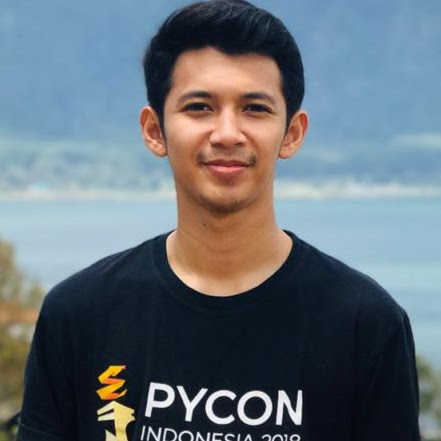
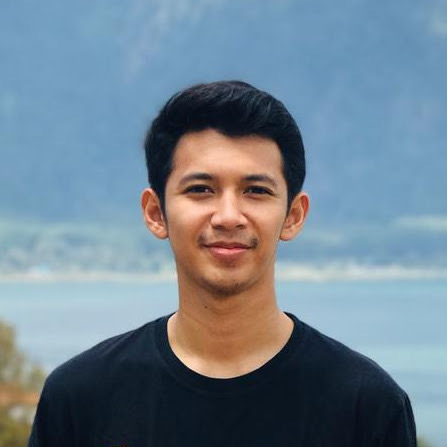
Updated profile pic and resize font

diff --git a/styles.scss b/styles.scss
@@ -3,7 +3,7 @@ section {
   flex-direction: column;
 }
 section h1 {
-  font-size: 42px;
+  font-size: 32px;
   font-weight: 300;
   margin: 0;
   color: #454545;
@@ -14,7 +14,7 @@ section h1:focus {
   outline: none;
 }
 section h2 {
-  margin: 8px 20px 0 0;
+  margin: 8px 0;
   display: inline-block;
   font-weight: 200;
 }
@@ -68,12 +68,12 @@ nav a {
   section h1 {
     position: relative;
     padding-right: 0;
-    font-size: 60px;
+    font-size: 40px;
     color: #454545;
     font-weight: 200;
   }
   section h2 {
-    margin: 8px 20px 0 0;
+    margin: 8px 0;
     display: inline-block;
     font-weight: 200;
   }
@@ -100,7 +100,7 @@ nav a {
   }
   .my-photo {
     border-radius: 50%;
-    max-width: 125px;
+    max-width: 160px;
     margin-bottom: 16px;
   }
 }

diff --git a/pages/index.js b/pages/index.js
@@ -16,7 +16,7 @@ class Index extends Component {
           <img className="my-photo" src="/static/me.jpg" alt="Farazaulia photo" />
           <div>
             <h1>👋 Hi, My name is <u>Faraz</u></h1>
-            <h2>I am a Software Engineer</h2>
+            <h2>I am a software engineer.</h2>
           </div>
         </section>
         <nav>
